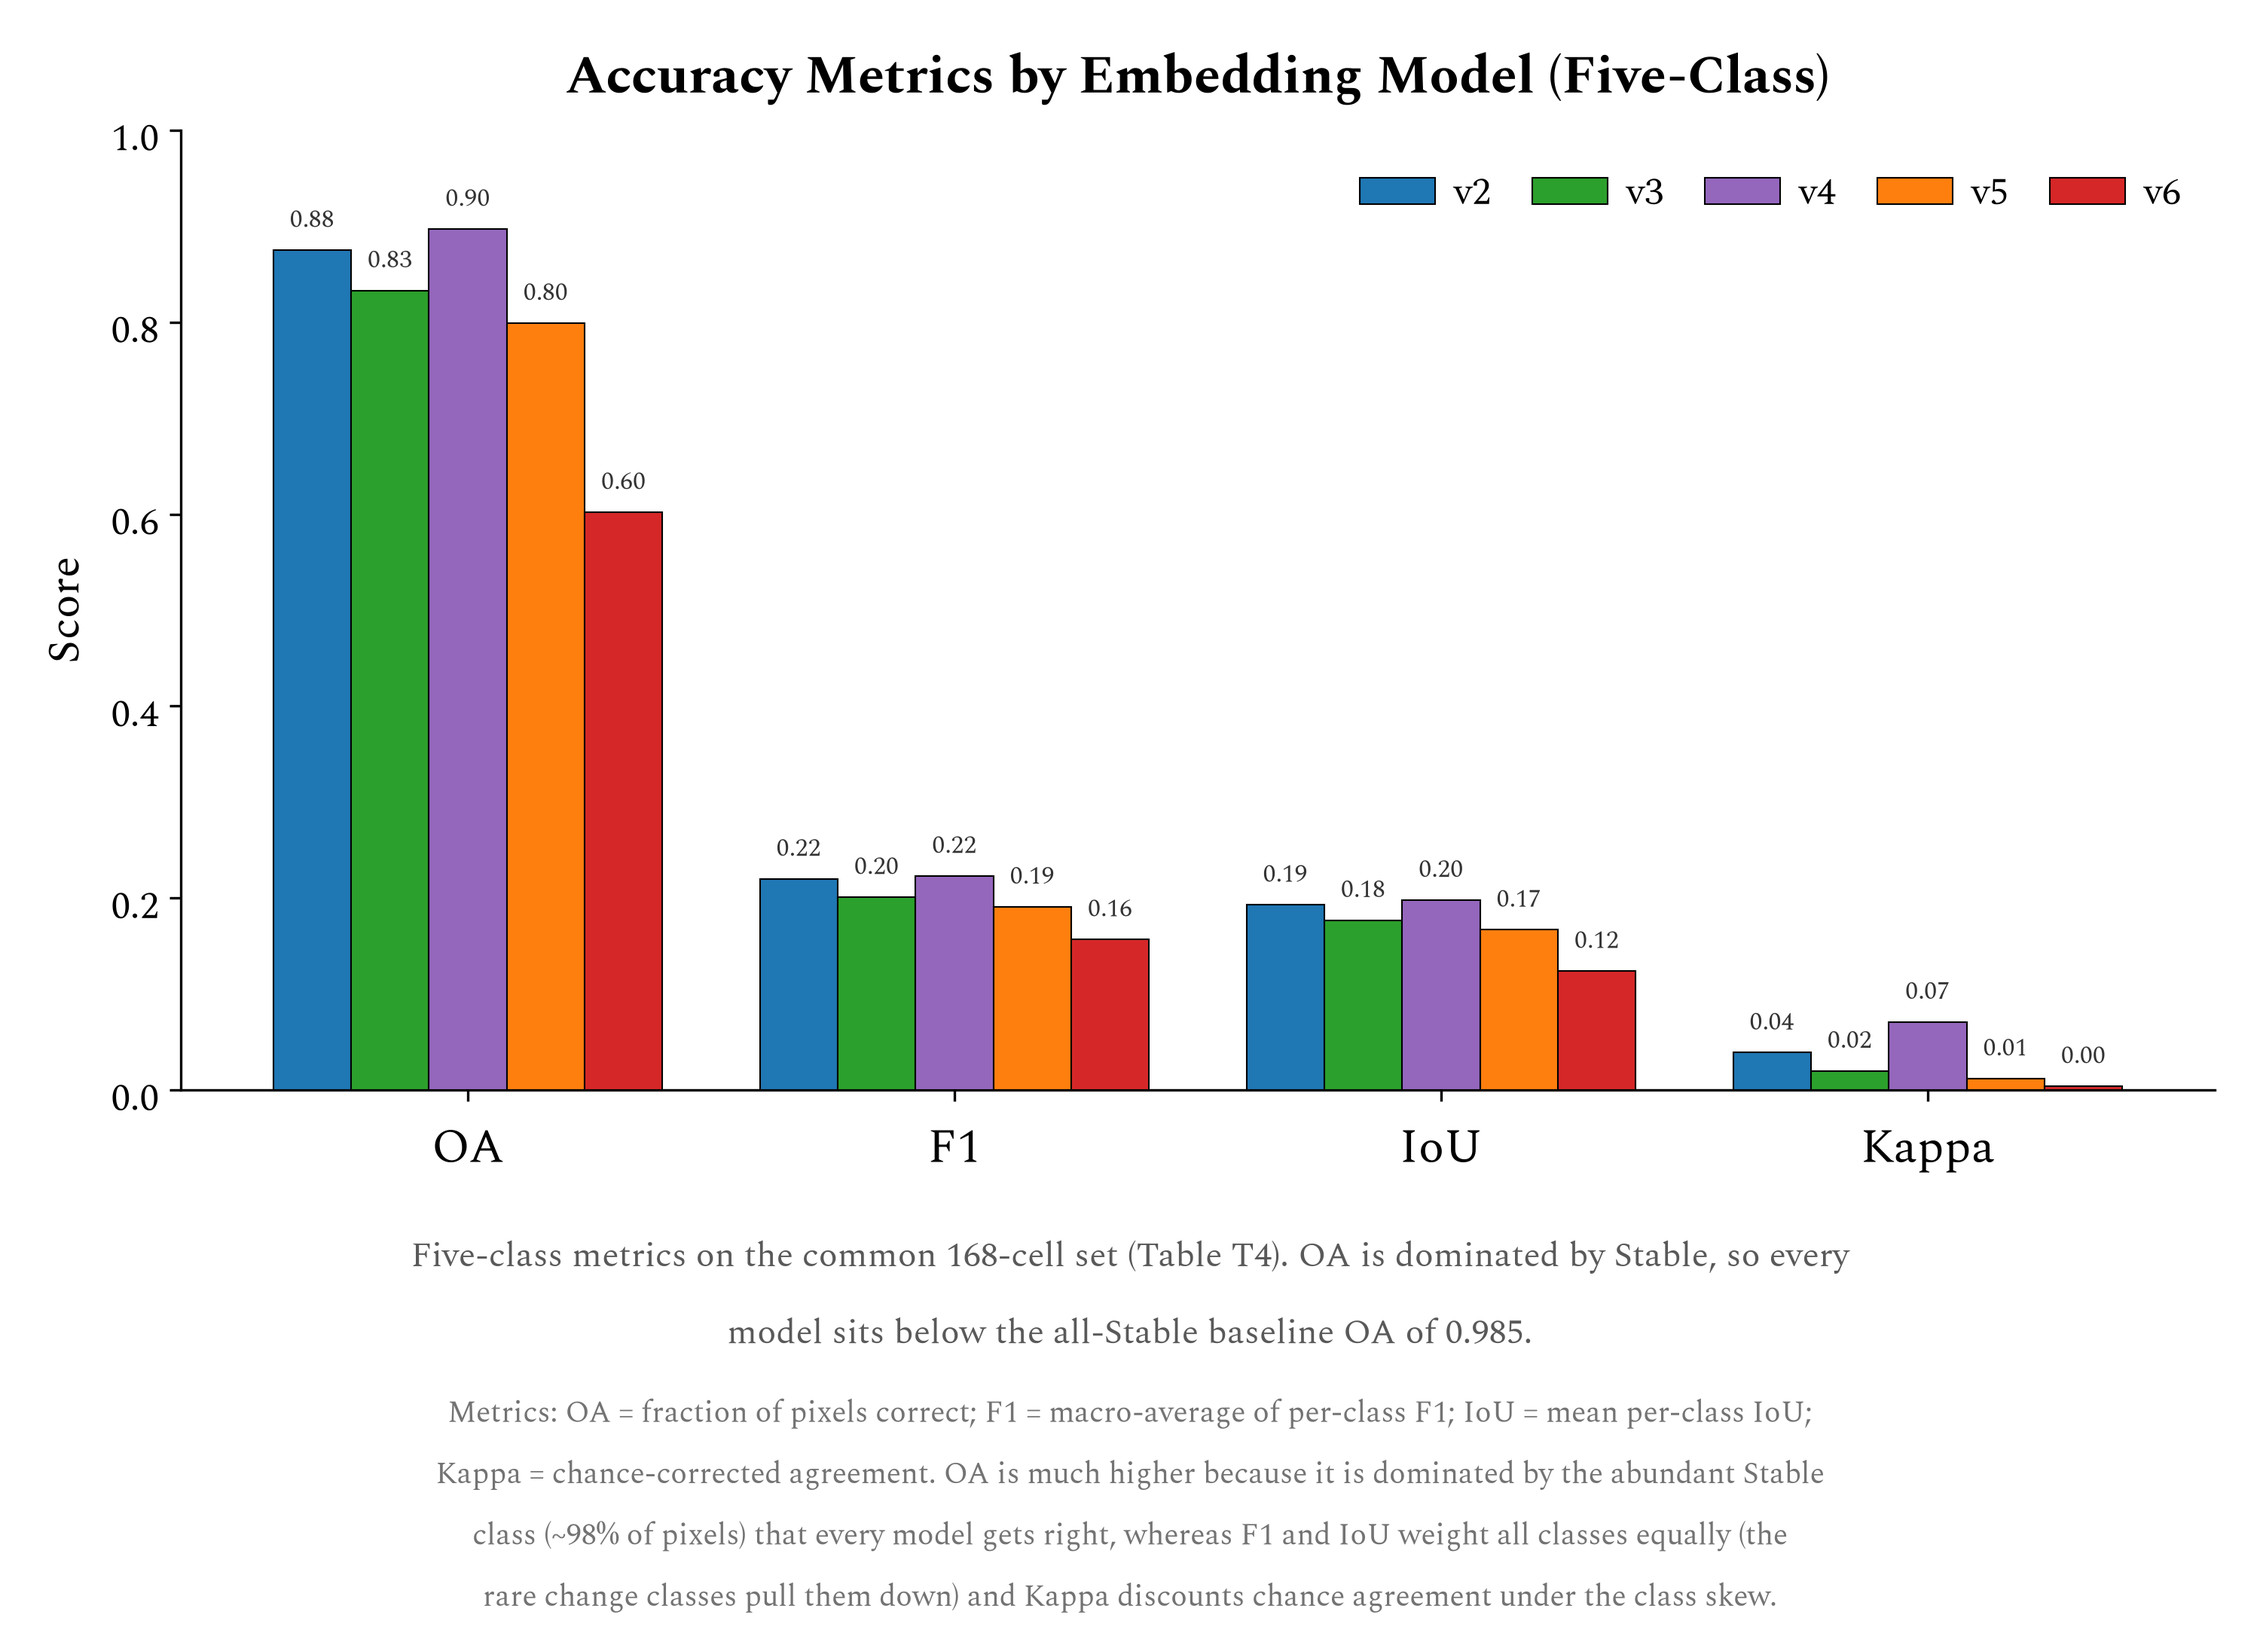
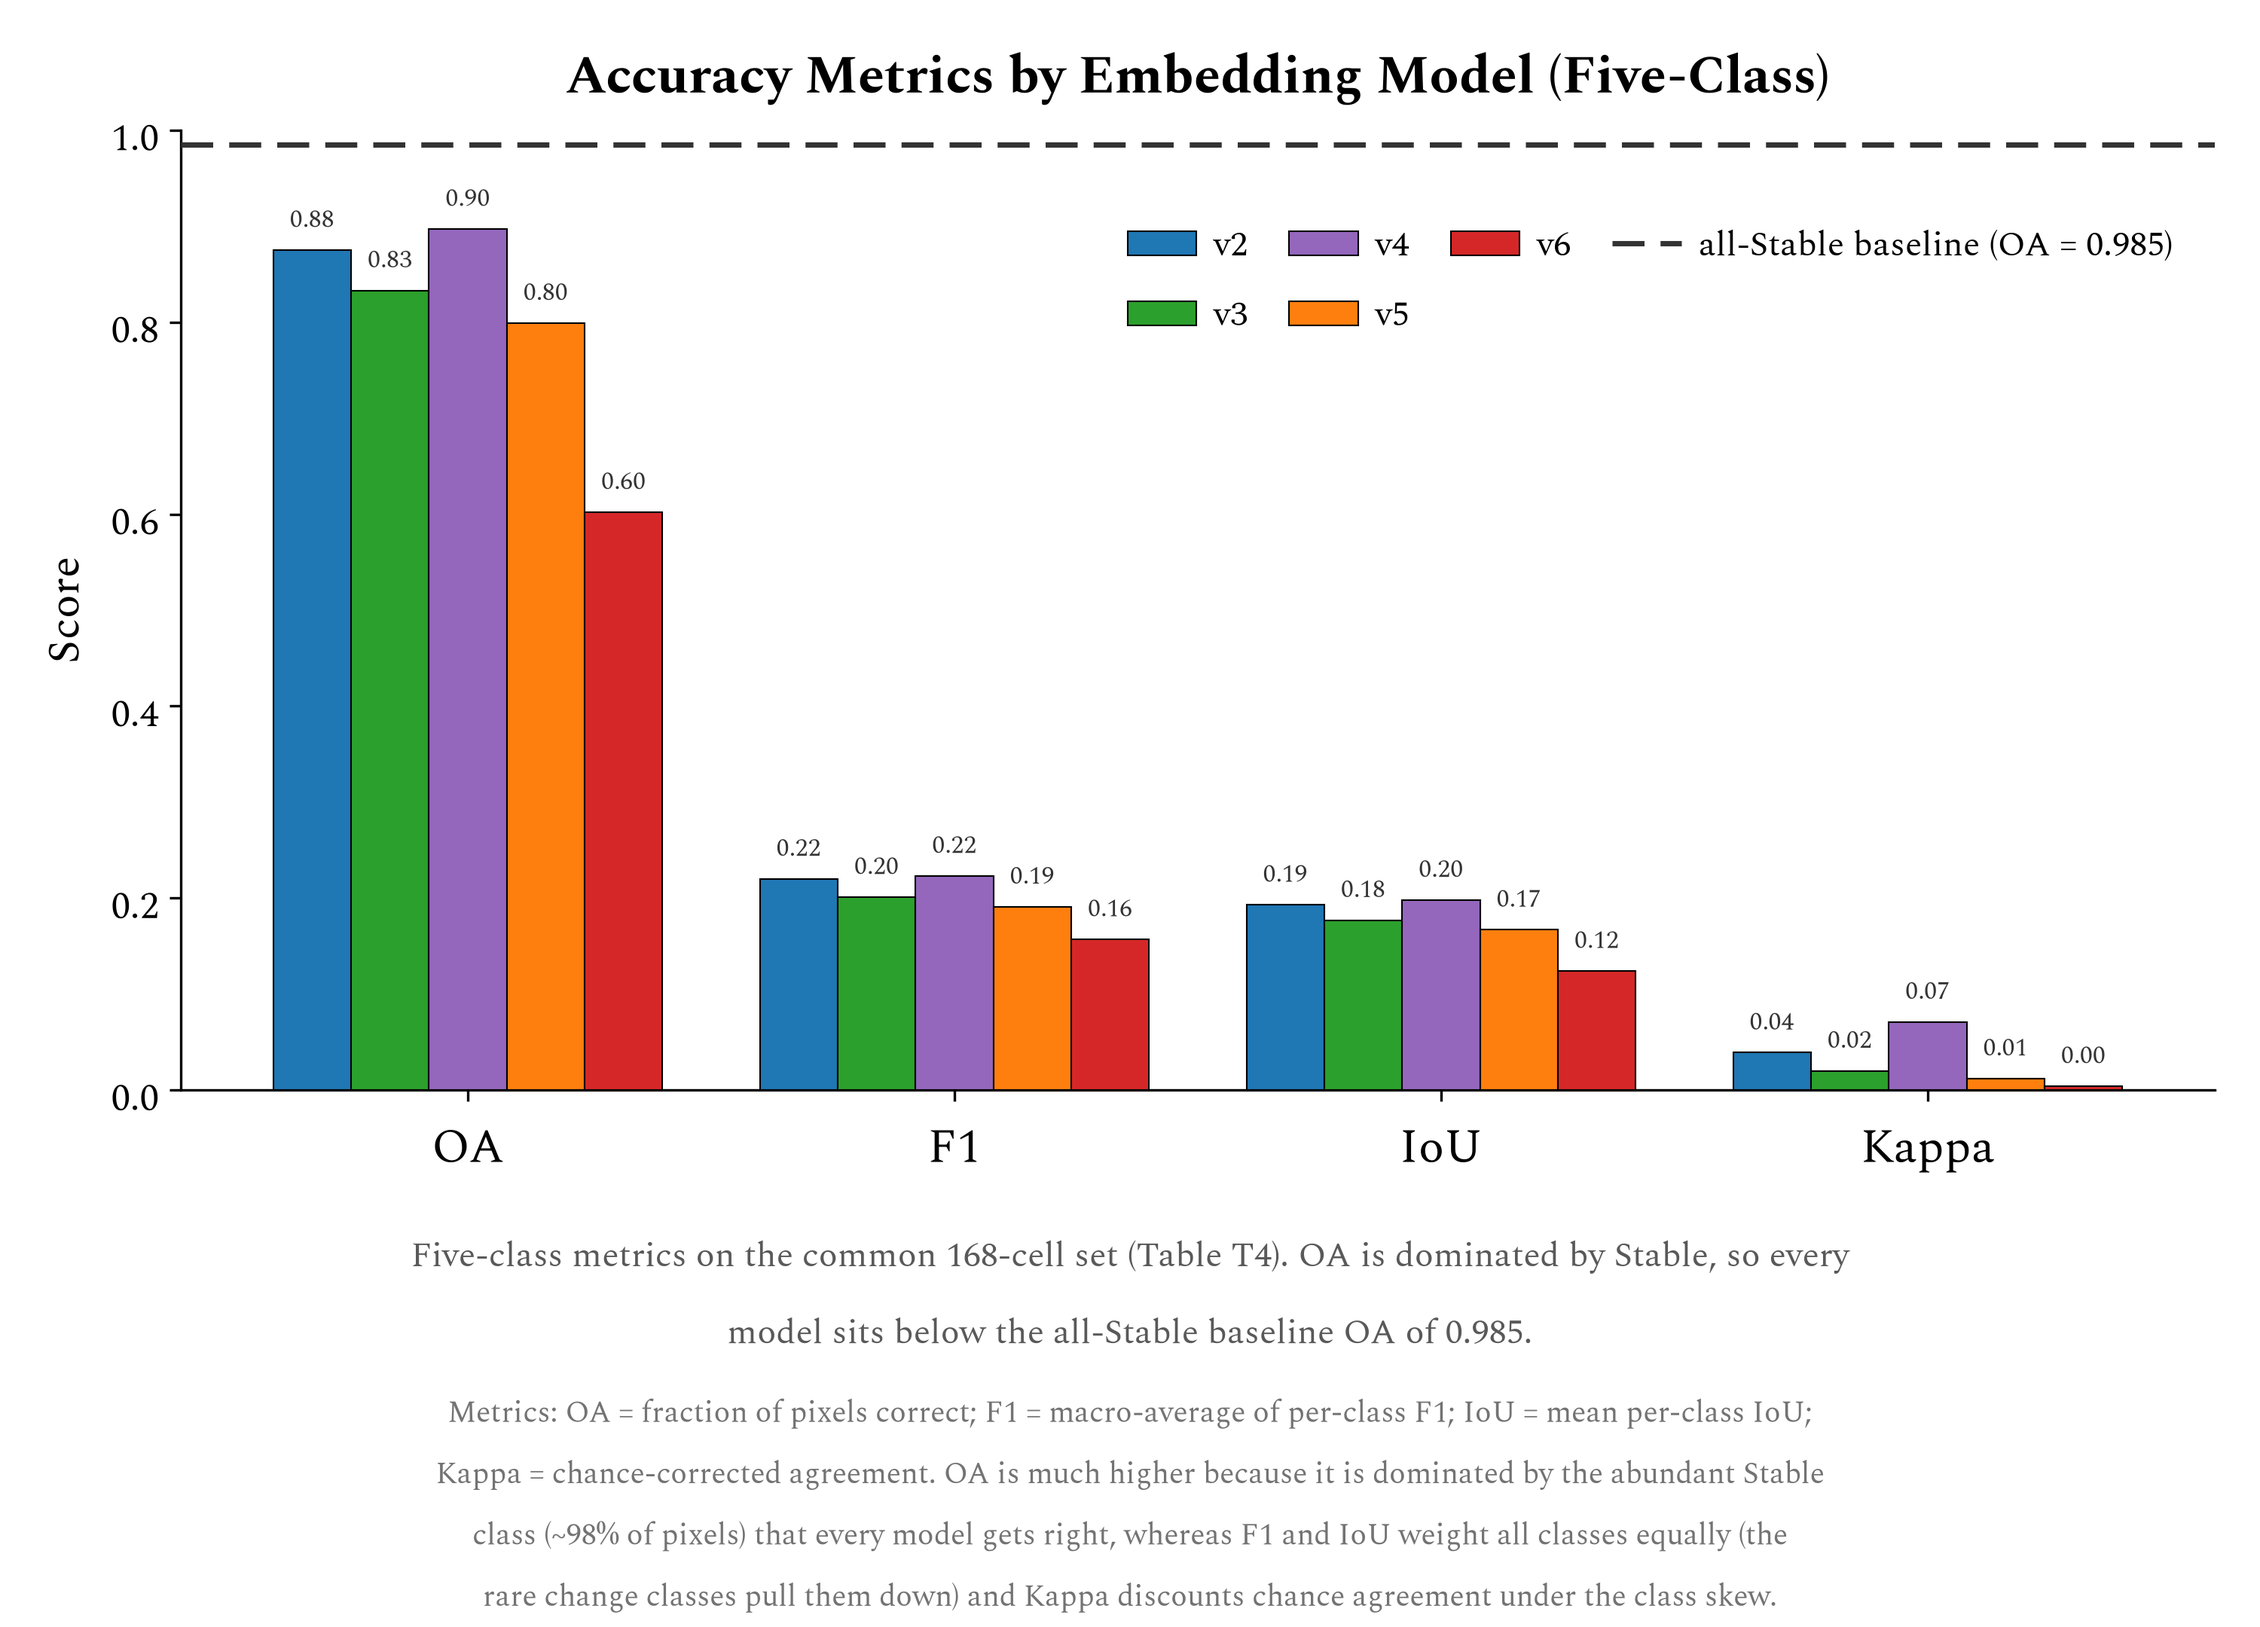
pres_17 5-class: add dashed all-Stable baseline OA line with legend entry
Both 5-class figures now draw the all-Stable baseline OA (0.985, from T4) as a dashed
reference line and add it to the legend, so it's visible that every model's OA is below it.

diff --git a/presentation/scripts/pres_17_model_metrics_5class.py b/presentation/scripts/pres_17_model_metrics_5class.py
@@ -22,6 +22,7 @@ import matplotlib.pyplot as plt
 import slide_font
 import numpy as np
 import pandas as pd
+from matplotlib.lines import Line2D
 slide_font.use_spectral()
 
 HERE = os.path.dirname(os.path.abspath(__file__))
@@ -60,8 +61,15 @@ def _draw(df, models, stem, title, caption, note):
     ax.grid(False)
     for s in ("top", "right"):
         ax.spines[s].set_visible(False)
-    ax.legend(ncol=n, fontsize=12, loc="upper right", frameon=False, columnspacing=1.1,
-              handletextpad=0.5)
+
+    # all-Stable baseline OA: OA you would get by predicting Stable everywhere (dashed reference line)
+    baseline = float(df["All-Stable baseline OA"].iloc[0])
+    ax.axhline(baseline, ls=(0, (6, 3)), color="#333333", lw=1.7, zorder=4)
+    handles, labels = ax.get_legend_handles_labels()
+    handles.append(Line2D([0], [0], color="#333333", ls=(0, (6, 3)), lw=1.7))
+    labels.append(f"all-Stable baseline (OA = {baseline:.3f})")
+    ax.legend(handles, labels, ncol=4, fontsize=11, loc="upper right", bbox_to_anchor=(0.995, 0.94),
+              frameon=False, columnspacing=1.2, handletextpad=0.5)
     ax.set_title(title, fontsize=17, fontweight="bold", pad=12)
 
     fig.text(0.5, 0.25, caption, ha="center", va="top", fontsize=11, color="0.35", linespacing=1.4)
